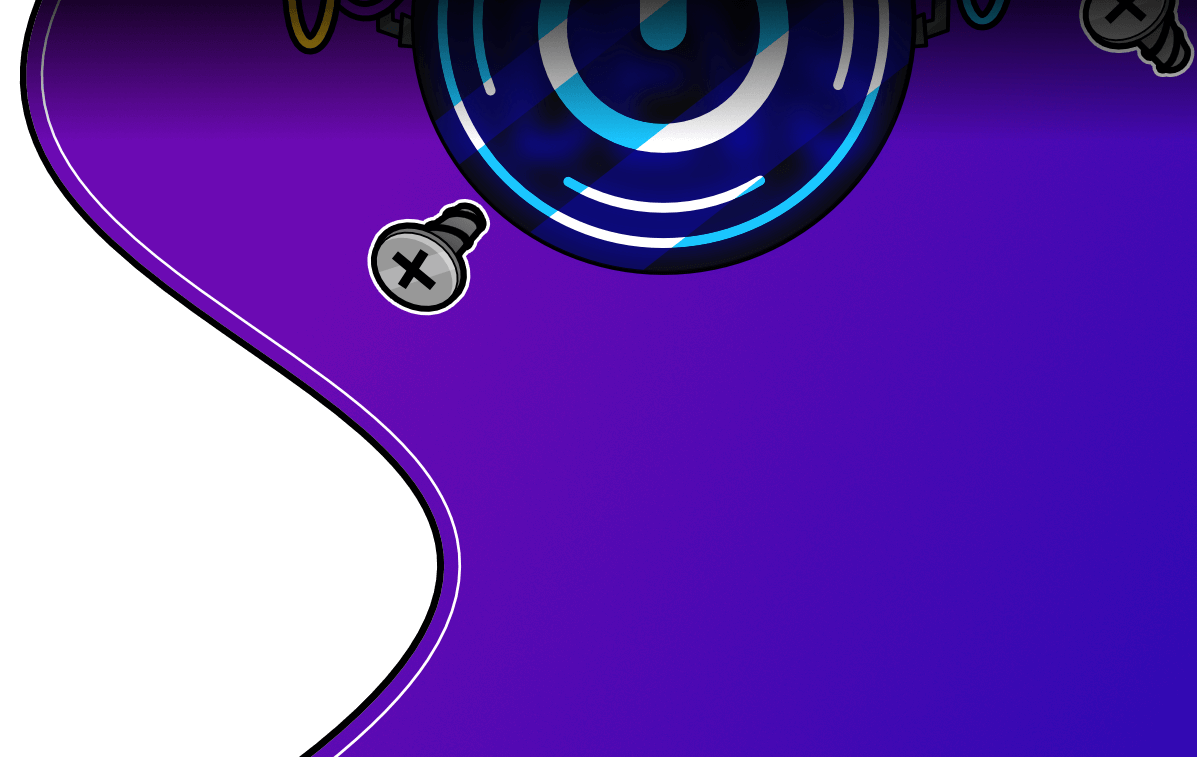
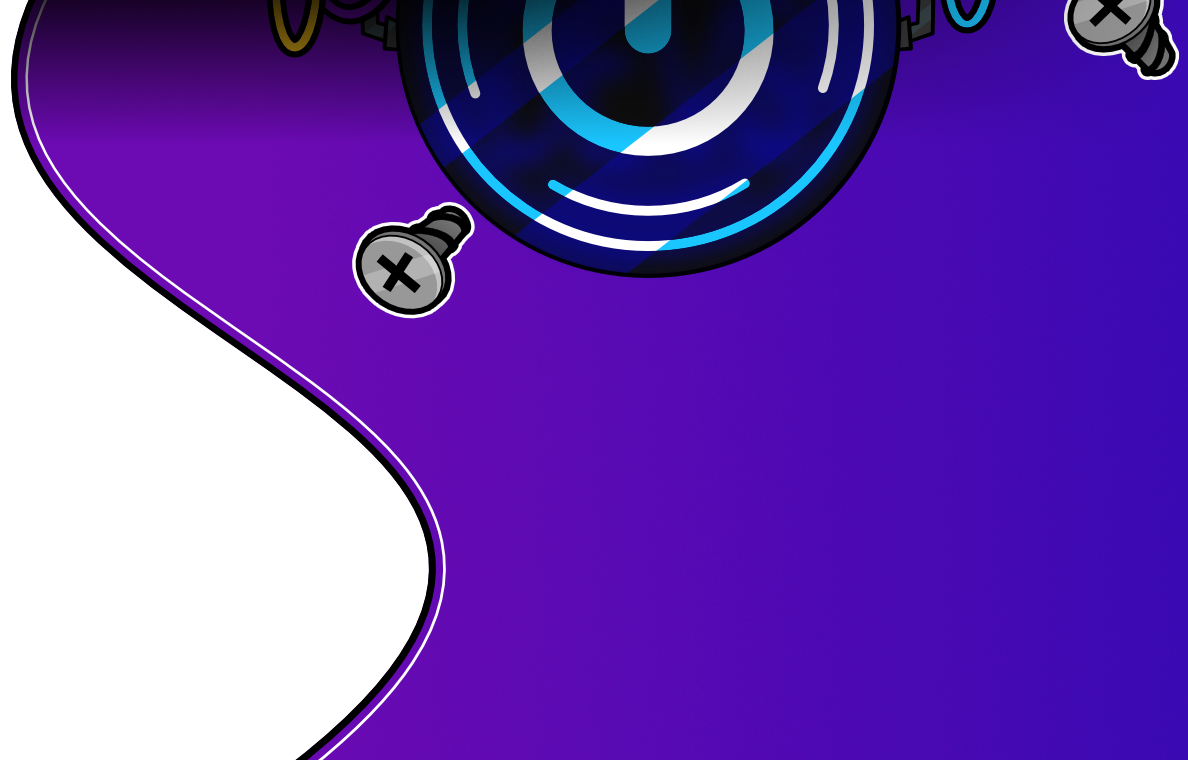
update cover backgrounds and nav fix

Changed region(s): [[0.218, 0.0, 1.0, 0.4254], [0.0, 0.0, 0.4049, 1.0]]

diff --git a/src/views/_navigation.html b/src/views/_navigation.html
@@ -1,19 +1,21 @@
 <div class="navigation">
-   <a href ="/index.html#landing-cover">
-      <img class="navigation__logo" src="../assets/images/header_logo.png" />
-   </a>
-   <div class="navigation__menu">
-      <div id="menuToggle">
-         <input type="checkbox" />
-         <span></span>
-         <span></span>
-         <span></span>
-         <ul id="menu">
-            <a href="/index.html#landing-about"><li>¿Quiénes somos?</li></a>
-            <a href="/index.html#landing-mission"><li>Misión y Visión</li></a>
-            <a href="/meetups.html"><li class="nav-button">Meetups</li></a>
-            <a href="/activities.html"><li class="nav-button">Actividades</li></a>
-         </ul>
+   <div class="container">
+      <a href ="/index.html#landing-cover">
+         <img class="navigation__logo" src="../assets/images/header_logo.png" />
+      </a>
+      <div class="navigation__menu">
+         <div id="menuToggle">
+            <input type="checkbox" />
+            <span></span>
+            <span></span>
+            <span></span>
+            <ul id="menu">
+               <a href="/index.html#landing-about"><li>¿Quiénes somos?</li></a>
+               <a href="/index.html#landing-mission"><li>Misión y Visión</li></a>
+               <a href="/meetups.html"><li class="nav-button">Meetups</li></a>
+               <a href="/activities.html"><li class="nav-button">Actividades</li></a>
+            </ul>
+         </div>
       </div>
    </div>
 </div>

diff --git a/src/scss/landing.scss b/src/scss/landing.scss
@@ -9,6 +9,7 @@
    &__cover {
       position: relative;
       overflow: hidden;
+      background-color: #ededed;
 
       #cover-copy {
          width: min(100%, 500px);
@@ -32,7 +33,7 @@
             background-repeat: no-repeat;
             background-position-x: left;
             background-size: auto 100%;
-            z-index: -2;
+            z-index: 0;
          }
 
          &::after {
@@ -46,12 +47,13 @@
             background-repeat: no-repeat;
             background-position-x: left;
             background-size: auto 100%;
-            z-index: -1;
+            z-index: 1;
          }
 
          #cover-copy {
             padding-top: 12rem;
             padding-bottom: 6rem;
+            z-index: 1;
          }
       }
    }

diff --git a/src/scss/navigation.scss b/src/scss/navigation.scss
@@ -6,6 +6,10 @@
    padding: 1rem;
    z-index: 10;
 
+   .container {
+      padding: 0rem !important;
+   }
+
    &__logo {
       cursor: pointer;
    }
@@ -86,7 +90,7 @@
       #menu {
          position: absolute;
          width: 300px;
-         right: calc(-300px);
+         right: calc(-300px - 1rem);
          margin: -100px 0 0 -50px;
          padding: 50px;
          padding-top: 125px;
@@ -149,10 +153,6 @@
 
 @media screen and (min-width: var.$resolution-large) {
    .navigation {
-
-      width: var.$resolution-large;
-      left: 50%;
-      transform: translateX(-50%);
 
       &.scrolling {
          #menuToggle #menu {

diff --git a/src/scss/global.scss b/src/scss/global.scss
@@ -56,9 +56,8 @@ p {
 }
 
 .container {
-   width: calc(100% - 2rem);
+   width: min(100%, 1280px);
    padding: 0 1rem;
-   max-width: 1280px;
    margin: 0 auto;
    position: relative;
 }
